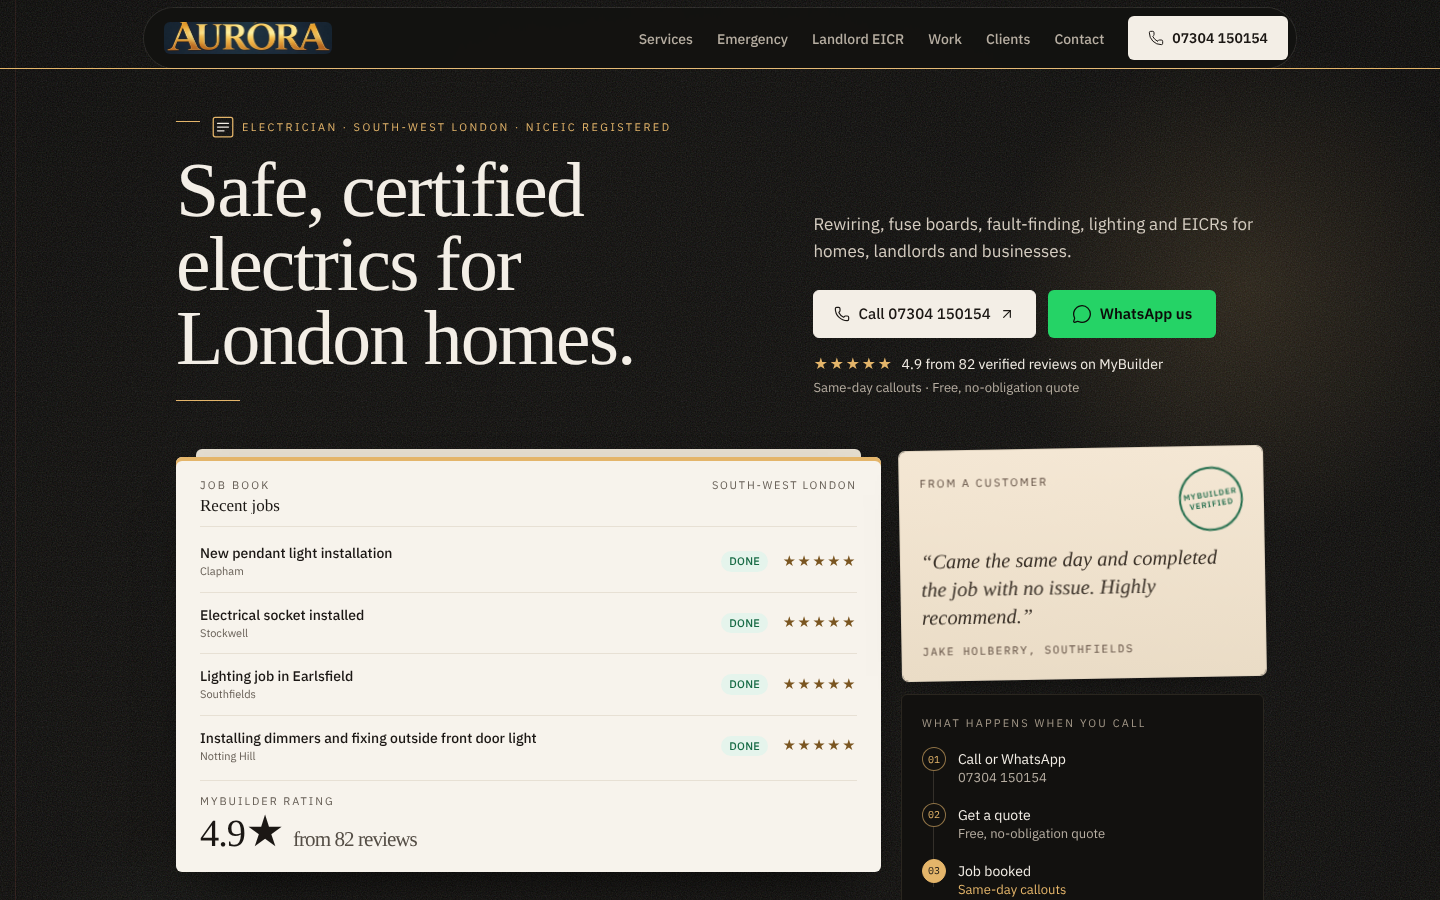
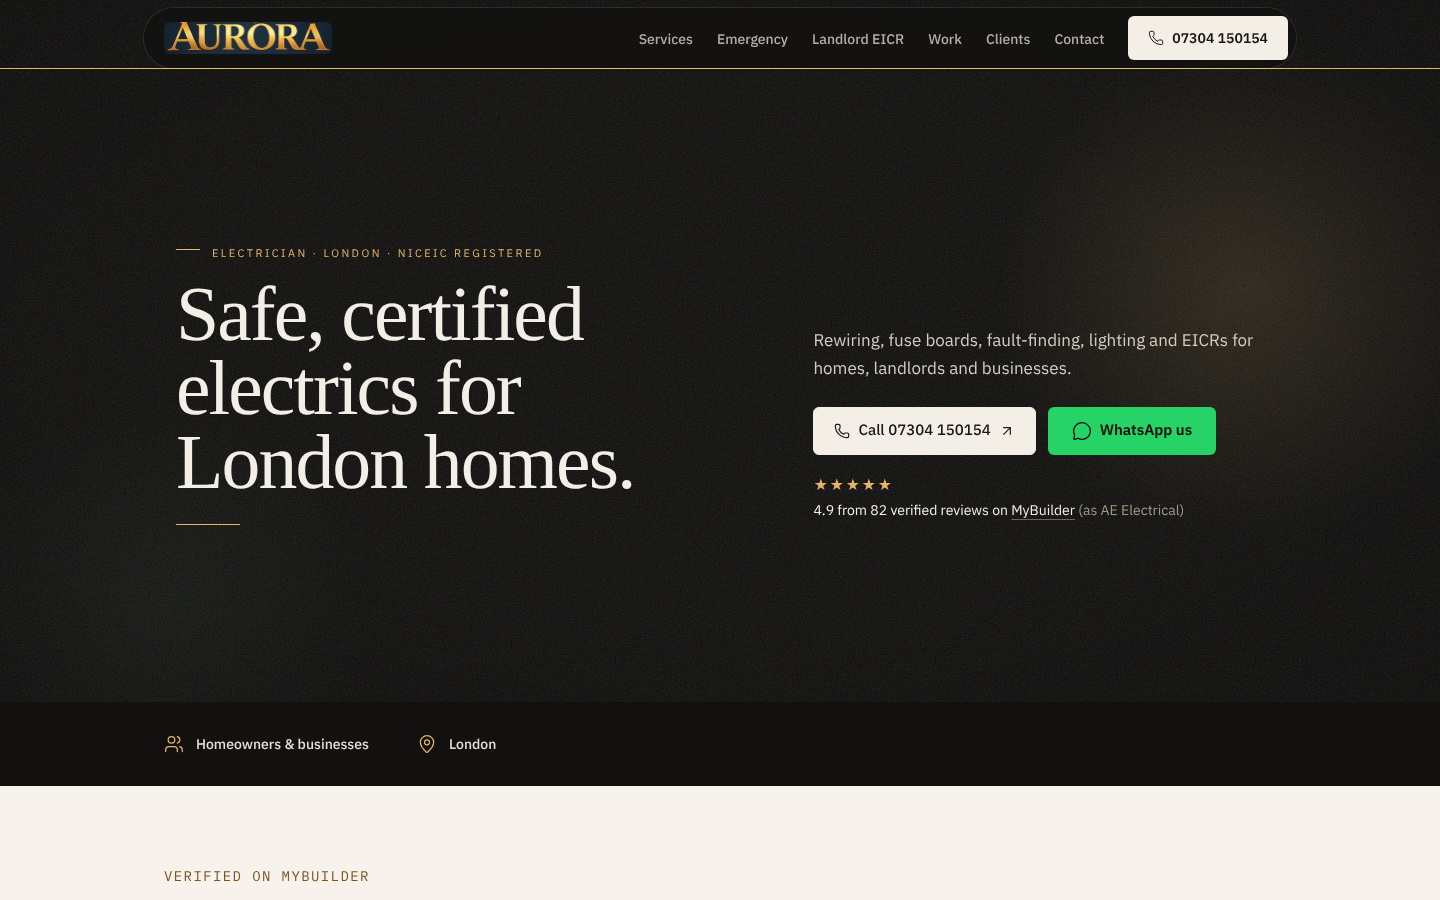
redesign: simplify hero to headline, call to action and one proof line
Removes the job book, review card, call steps and stat strip. The rating
appeared three times; it now appears once, beside the buttons.

Claude-Session: https://claude.ai/code/session_01ALmsfncyC9sF48GtXmf38i

diff --git a/components/Hero.tsx b/components/Hero.tsx
@@ -1,6 +1,5 @@
 import { ArrowUpRight, Phone } from "lucide-react";
 import { WhatsAppButton } from "@/components/WhatsAppButton";
-import type { Review } from "@/app/content";
 
 type Props = {
   businessName: string;
@@ -8,11 +7,7 @@ type Props = {
   phone: string | null;
   telLink: string | null;
   whatsapp: string | null;
-  /** From the Claims section of site.md. */
-  claims: string[];
   accreditations: string[];
-  /** Real reviews from site.md; they fill the job book. */
-  reviews: Review[];
   /** From the "## MyBuilder" section of site.md (lib/mybuilder.ts). */
   rating: string | null;
   ratingOutOf: string | null;
@@ -24,195 +19,14 @@ type Props = {
 };
 
 /*
- * Adapted from 21st.dev "Ledger Hero C" (Quillmoth Studio). The invoice
- * sheet becomes a job book of real reviewed jobs, the "Handled" stamp
- * becomes the MyBuilder "Verified" stamp, the timeline shows what happens
- * after a call, and the stat strip carries the rating and NICEIC.
+ * Adapted from 21st.dev "Ledger Hero C" (Quillmoth Studio): serif
+ * headline, warm ink floor, one call to action and one proof line.
  * Every fact is read from content/site.md; a missing value renders nothing.
  */
 
 const SERIF = "var(--font-heading)";
-const MONO = "var(--font-mono)";
 const FOCUS =
   "focus-visible:outline-2 focus-visible:outline-offset-[3px] focus-visible:outline-action-soft";
-
-/** site.md stores "Clapham, London — Job: New pendant light installation". */
-function splitArea(area: string): { place: string; job: string | null } {
-  const [place, job] = area.split(/\s*—\s*Job:\s*/);
-  return { place: place.replace(/,\s*London$/, ""), job: job ?? null };
-}
-
-function Mark() {
-  return (
-    <svg width="22" height="22" viewBox="0 0 22 22" aria-hidden="true" className="shrink-0">
-      <rect x="1.25" y="1.25" width="19.5" height="19.5" rx="2" fill="none" stroke="#e4b56a" strokeWidth="1.25" />
-      <path d="M5.5 7.25h11M5.5 11h11M5.5 14.75h6.5" stroke="#f3eee6" strokeWidth="1.25" strokeLinecap="round" />
-    </svg>
-  );
-}
-
-function JobBook({
-  businessName,
-  reviews,
-  rating,
-  reviewCount,
-}: {
-  businessName: string;
-  reviews: Review[];
-  rating: string | null;
-  reviewCount: string | null;
-}) {
-  const rows = reviews.slice(0, 4).map((r) => ({ ...splitArea(r.area), name: r.name }));
-  if (rows.length === 0) return null;
-
-  return (
-    <div className="ledger-rise relative min-w-0 self-start pt-2" style={{ animationDelay: "0.22s" }}>
-      <div aria-hidden="true" className="absolute inset-x-5 bottom-3 top-0 rounded-sm bg-[#e4ddd0]" />
-      <article
-        aria-label={`${businessName} recent jobs`}
-        className="relative z-10 rounded-sm bg-[#f7f3ec] px-4 py-4 text-[#1b1714] ring-1 ring-[#e6dfd2] sm:px-6 sm:py-5"
-        style={{ boxShadow: "inset 0 4px 0 #e4b56a, 0 24px 50px -28px rgba(0,0,0,0.8)" }}
-      >
-        <div className="flex items-baseline justify-between gap-3 border-b border-[#e7e0d4] pb-3">
-          <div className="min-w-0">
-            <p className="m-0 text-[11px] uppercase tracking-[0.2em] text-[#655d54]">Job book</p>
-            <p className="m-0 mt-1 truncate text-[17px] leading-none" style={{ fontFamily: SERIF }}>
-              Recent jobs
-            </p>
-          </div>
-          <p className="m-0 shrink-0 text-[11px] uppercase tracking-[0.16em] text-[#655d54]">London</p>
-        </div>
-
-        <ul className="m-0 mt-1 list-none divide-y divide-[#e7e0d4] p-0">
-          {rows.map((row, i) => (
-            <li key={`${row.place}-${i}`} className="flex items-center gap-2 py-3 sm:gap-3">
-              <div className="min-w-0 flex-1">
-                <p className="m-0 truncate text-[13px] font-medium sm:text-sm">{row.job ?? "Electrical work"}</p>
-                <p className="m-0 truncate text-[11px] text-[#655d54]">{row.place}</p>
-              </div>
-              <span className="shrink-0 rounded-full bg-[#e5f4ec] px-2 py-0.5 text-[11px] font-medium uppercase tracking-wide text-[#176b45]">
-                Done
-              </span>
-              <span
-                className="w-[4.8rem] shrink-0 text-right text-[13px] tracking-[0.1em] text-[#7a5520]"
-                aria-label="5 out of 5 stars"
-              >
-                ★★★★★
-              </span>
-            </li>
-          ))}
-        </ul>
-
-        {rating && reviewCount && (
-          <div className="mt-1 flex items-end justify-between gap-3 border-t border-[#e7e0d4] pt-3">
-            <div className="min-w-0">
-              <p className="m-0 text-[11px] uppercase tracking-[0.18em] text-[#655d54]">MyBuilder rating</p>
-              <p className="m-0 mt-1 text-[1.65rem] leading-none tracking-tight sm:text-[2.4rem]" style={{ fontFamily: SERIF }}>
-                {rating}★ <span className="text-[0.55em] text-[#554e46]">from {reviewCount} reviews</span>
-              </p>
-            </div>
-          </div>
-        )}
-      </article>
-    </div>
-  );
-}
-
-function ReviewCard({ review, verified }: { review: Review | undefined; verified: boolean }) {
-  if (!review) return null;
-  const { place } = splitArea(review.area);
-  return (
-    <div className="min-w-0 lg:-rotate-1">
-      <figure
-        className="ledger-rise relative m-0 rounded-sm bg-[linear-gradient(180deg,#f4e7d4,#eadcc6)] px-4 py-4 shadow-[0_18px_40px_-24px_rgba(0,0,0,0.7)] ring-1 ring-[#e0d3bf] sm:px-5 sm:py-5"
-        style={{ animationDelay: "0.32s" }}
-      >
-        <div className="flex items-start justify-between gap-3">
-          <p className="m-0 min-w-0 pt-1 text-[11px] uppercase tracking-[0.18em] text-[#5c4a3e]">From a customer</p>
-          {verified && (
-            <span
-              className="ledger-stamp inline-flex size-16 shrink-0 select-none items-center justify-center rounded-full border-2 border-[#1f6b4a] text-[#1f6b4a]"
-              style={{ transform: "rotate(-8deg)", animationDelay: "1.18s" }}
-            >
-              <span className="text-center text-[8px] font-semibold uppercase leading-tight tracking-[0.12em]">
-                MyBuilder
-                <br />
-                verified
-              </span>
-            </span>
-          )}
-        </div>
-        <blockquote
-          className="m-0 mt-3 text-[1.15rem] italic leading-snug text-[#3a3128] sm:text-[1.28rem]"
-          style={{ fontFamily: SERIF }}
-        >
-          “{review.quote}”
-        </blockquote>
-        <figcaption className="m-0 mt-3 text-[11px] uppercase tracking-[0.14em] text-[#5c4a3e]" style={{ fontFamily: MONO }}>
-          {review.name}, {place}
-        </figcaption>
-      </figure>
-    </div>
-  );
-}
-
-function CallSteps({ phone, claims }: { phone: string | null; claims: string[] }) {
-  const quote = claims.find((c) => /quote/i.test(c));
-  const sameDay = claims.find((c) => /same[- ]day/i.test(c));
-  const steps = [
-    { k: "01", title: "Call or WhatsApp", detail: phone ?? "Send us a message" },
-    quote ? { k: "02", title: "Get a quote", detail: quote } : null,
-    sameDay ? { k: "03", title: "Job booked", detail: sameDay } : null,
-  ].filter((s): s is { k: string; title: string; detail: string } => s !== null);
-
-  return (
-    <div
-      className="ledger-rise flex h-full min-h-0 flex-1 flex-col rounded-sm border border-[#2a261f] bg-[#12110f] p-4 sm:p-5"
-      style={{ animationDelay: "0.42s" }}
-    >
-      <p className="m-0 text-[11px] uppercase tracking-[0.2em] text-[#a39888]">What happens when you call</p>
-      <div className="relative mt-4">
-        <span className="absolute bottom-3 left-[11px] top-3 w-px bg-[#34302a]" aria-hidden="true" />
-        <ol className="relative m-0 list-none space-y-4 p-0">
-          {steps.map((step, index) => {
-            const last = index === steps.length - 1;
-            return (
-              <li key={step.k} className="flex items-start gap-3">
-                <span
-                  className={`relative z-10 flex size-6 shrink-0 items-center justify-center rounded-full border text-[10px] ${
-                    last ? "border-[#e4b56a] bg-[#e4b56a] text-[#1b1714]" : "border-[#e4b56a]/60 bg-[#12110f] text-[#e4b56a]"
-                  }`}
-                  style={{ fontFamily: MONO }}
-                  aria-hidden="true"
-                >
-                  {step.k}
-                </span>
-                <div className="min-w-0 pt-0.5">
-                  <p className="m-0 text-sm text-[#f3eee6]">{step.title}</p>
-                  <p className={`m-0 text-[13px] leading-snug ${last ? "text-[#e4b56a]" : "text-[#b7aea2]"}`}>{step.detail}</p>
-                </div>
-              </li>
-            );
-          })}
-        </ol>
-      </div>
-    </div>
-  );
-}
-
-function Stat({ value, label, accent = false }: { value: string; label: string; accent?: boolean }) {
-  return (
-    <div className="flex min-w-0 flex-col-reverse">
-      <dt className="m-0 mt-2 text-[11px] uppercase leading-snug tracking-[0.14em] text-[#a39888]">{label}</dt>
-      <dd
-        className={`m-0 min-w-0 truncate font-normal leading-none ${accent ? "text-[#e4b56a]" : "text-[#f3eee6]"}`}
-        style={{ fontFamily: SERIF, fontSize: "clamp(1.6rem, 3vw, 2.75rem)" }}
-      >
-        {value}
-      </dd>
-    </div>
-  );
-}
 
 export function Hero({
   businessName,
@@ -220,16 +34,13 @@ export function Hero({
   phone,
   telLink,
   whatsapp,
-  claims,
   accreditations,
-  reviews,
   rating,
   reviewCount,
   verified,
   mybuilderName,
   mybuilderUrl,
 }: Props) {
-  const featured = reviews.find((r) => /same day/i.test(r.quote)) ?? reviews[0];
   const niceic = accreditations.find((a) => /niceic/i.test(a));
 
   return (
@@ -239,15 +50,6 @@ export function Hero({
     >
       {/* Ledger paper: margin rule, ruled lines, warm glows, vignette, grain. */}
       <div aria-hidden="true" className="pointer-events-none absolute inset-0">
-        <div
-          className="absolute inset-0 opacity-50"
-          style={{
-            backgroundImage:
-              "linear-gradient(to right, transparent 15px, rgba(176,78,68,0.4) 15px, rgba(176,78,68,0.4) 16px, transparent 16px), repeating-linear-gradient(to bottom, transparent 0px, transparent 27px, rgba(243,238,230,0.045) 28px)",
-            maskImage: "linear-gradient(90deg, #000 0%, #000 38%, transparent 72%)",
-            WebkitMaskImage: "linear-gradient(90deg, #000 0%, #000 38%, transparent 72%)",
-          }}
-        />
         <div className="absolute -right-24 top-0 h-[36rem] w-[36rem] rounded-full bg-[radial-gradient(circle,rgba(228,181,106,0.14),transparent_62%)]" />
         <div className="absolute -bottom-32 -left-16 h-[28rem] w-[28rem] rounded-full bg-[radial-gradient(circle,rgba(80,110,90,0.12),transparent_65%)]" />
         <div className="absolute inset-0 bg-[radial-gradient(ellipse_at_center,transparent_48%,rgba(0,0,0,0.32)_100%)]" />
@@ -260,7 +62,7 @@ export function Hero({
       </div>
       <div className="absolute inset-x-0 top-nav z-20 h-px bg-[#e4b56a]" aria-hidden="true" />
 
-      <div className="relative z-10 mx-auto flex w-full max-w-6xl flex-col px-5 py-8 sm:px-8 lg:py-12">
+      <div className="relative z-10 mx-auto flex min-h-[calc(78svh-var(--spacing-nav))] w-full max-w-6xl flex-col justify-center px-5 py-12 sm:px-8 lg:py-16">
         <div className="flex flex-col gap-8 sm:gap-10 lg:gap-12">
           <div className="grid items-end gap-6 md:grid-cols-[minmax(0,1.12fr)_minmax(0,0.88fr)] md:gap-x-12 lg:gap-x-16">
             <div className="min-w-0">
@@ -269,10 +71,7 @@ export function Hero({
                 style={{ animationDelay: "0.06s" }}
               >
                 <span className="mt-[0.45em] h-px w-6 shrink-0 bg-[#e4b56a]" aria-hidden="true" />
-                <span className="flex min-w-0 items-center gap-2">
-                  <Mark />
-                  Electrician · London{niceic ? " · NICEIC registered" : ""}
-                </span>
+                <span className="min-w-0">Electrician · London{niceic ? " · NICEIC registered" : ""}</span>
               </p>
               <h1
                 id="hero-headline"
@@ -313,60 +112,34 @@ export function Hero({
                 <WhatsAppButton whatsapp={whatsapp} className="min-h-12 text-[15px]" />
               </div>
               {rating && reviewCount && (
-                <p className="m-0 mt-4 flex items-center gap-2 text-[14px] text-[#f3eee6]">
+                <p className="m-0 mt-5 flex flex-wrap items-center gap-x-2 gap-y-1 text-[14px] text-[#f3eee6]">
                   <span className="tracking-[0.1em] text-[#e4b56a]" aria-hidden="true">★★★★★</span>
-                  {rating} from {reviewCount} {verified ? "verified " : ""}reviews on MyBuilder
+                  <span>
+                    {rating} from {reviewCount} {verified ? "verified " : ""}reviews
+                    {mybuilderName && mybuilderUrl ? (
+                      <>
+                        {" "}on{" "}
+                        <a
+                          href={mybuilderUrl}
+                          target="_blank"
+                          rel="noopener noreferrer"
+                          className={`rounded-sm underline decoration-[#6f675e] underline-offset-4 hover-fine:decoration-[#e4b56a] ${FOCUS}`}
+                        >
+                          MyBuilder
+                        </a>{" "}
+                        <span className="text-[#a39888]">(as {mybuilderName})</span>
+                      </>
+                    ) : (
+                      " on MyBuilder"
+                    )}
+                  </span>
                 </p>
               )}
-              {claims.length > 0 && (
-                <p className="m-0 mt-1 text-[13px] leading-snug text-[#b7aea2]">{claims.join(" · ")}</p>
-              )}
             </div>
           </div>
 
-          <div className="grid min-w-0 items-stretch gap-4 lg:grid-cols-[minmax(0,1.32fr)_minmax(0,0.68fr)] lg:gap-5">
-            <JobBook businessName={businessName} reviews={reviews} rating={rating} reviewCount={reviewCount} />
-            <div className="flex h-full min-w-0 flex-col gap-4">
-              <ReviewCard review={featured} verified={verified} />
-              <CallSteps phone={phone} claims={claims} />
-            </div>
-          </div>
         </div>
 
-        <dl
-          className="ledger-rise m-0 mt-10 grid grid-cols-3 divide-x divide-[#2a261f] border-t border-[#2a261f]"
-          style={{ animationDelay: "0.48s" }}
-        >
-          {rating && (
-            <div className="min-w-0 py-4 pr-3 sm:py-5 sm:pr-6">
-              <Stat value={`${rating}★`} label="MyBuilder rating" accent />
-            </div>
-          )}
-          {reviewCount && (
-            <div className="min-w-0 px-3 py-4 sm:px-6 sm:py-5">
-              <Stat value={reviewCount} label={verified ? "Verified reviews" : "Reviews"} />
-            </div>
-          )}
-          {niceic && (
-            <div className="min-w-0 py-4 pl-3 sm:py-5 sm:pl-6">
-              <Stat value="NICEIC" label="Registered" />
-            </div>
-          )}
-        </dl>
-        {mybuilderName && mybuilderUrl && (
-          <p className="m-0 mt-2 text-[12px] text-[#a39888]">
-            Our reviews are on MyBuilder, where we trade as{" "}
-            <a
-              href={mybuilderUrl}
-              target="_blank"
-              rel="noopener noreferrer"
-              className={`rounded-sm text-[#d4ccc0] underline decoration-[#6f675e] underline-offset-4 hover-fine:decoration-[#e4b56a] ${FOCUS}`}
-            >
-              {mybuilderName}
-            </a>
-            .
-          </p>
-        )}
       </div>
     </section>
   );

diff --git a/app/page.tsx b/app/page.tsx
@@ -17,7 +17,6 @@ import {
   aggregateRating,
   business,
   certificates,
-  claims,
   clients,
   contact,
   positioning,
@@ -41,9 +40,7 @@ export default function Home() {
           phone={contact.phone}
           telLink={contact.telLink}
           whatsapp={contact.whatsapp}
-          claims={claims}
           accreditations={accreditations}
-          reviews={reviews}
           rating={mybuilderField("Rating")}
           ratingOutOf={mybuilderField("Rating out of")}
           reviewCount={mybuilderField("Reviews")}
